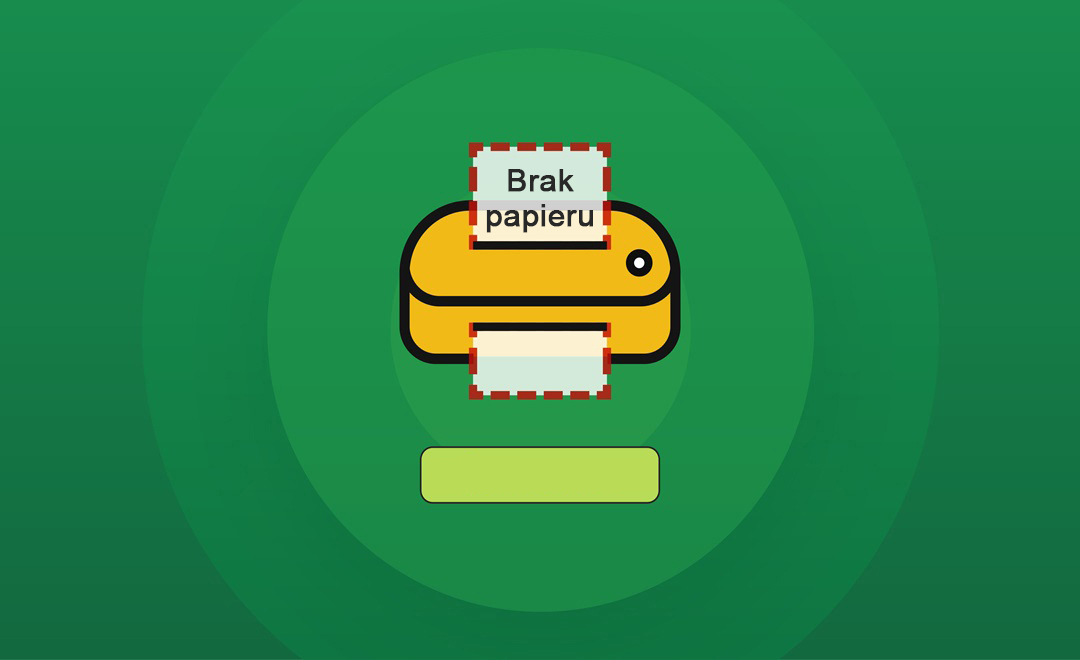
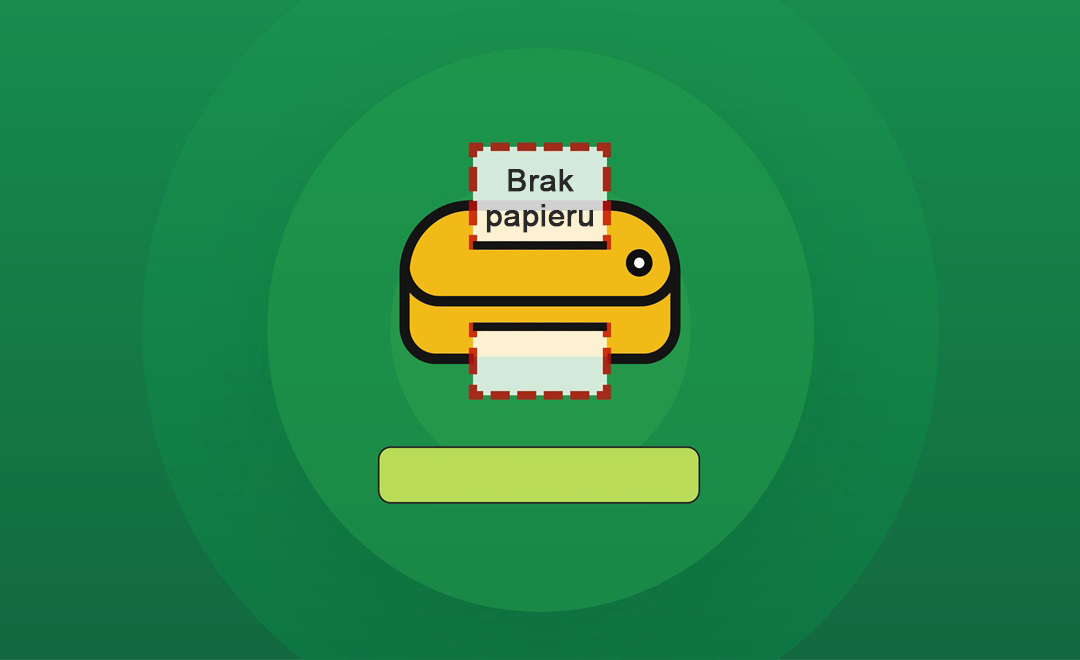
2222

Changed region(s): [[0.5806, 0.6667, 0.6722, 0.7879], [0.3361, 0.6667, 0.3972, 0.7879]]

diff --git a/tjt/printer_empty.php b/tjt/printer_empty.php
@@ -23,10 +23,9 @@
  
   
  
- 
 <a href="http://127.0.0.1/tjt/wait_restore_from_printer.php">
-    <button style='position:absolute; left:50%; top:73%; transform:translateX(-50%); color:#0f613b; font-size:28px; background:transparent; border:none;'>
-        Wymieniono papier 
+    <button style='position:absolute; left:50%; top:73%; transform:translateX(-50%); color:#0f613b; font-size:26px; background:transparent; border:none;'>
+        Potwierdż wymianę papieru
     </button>
 </a>
  
